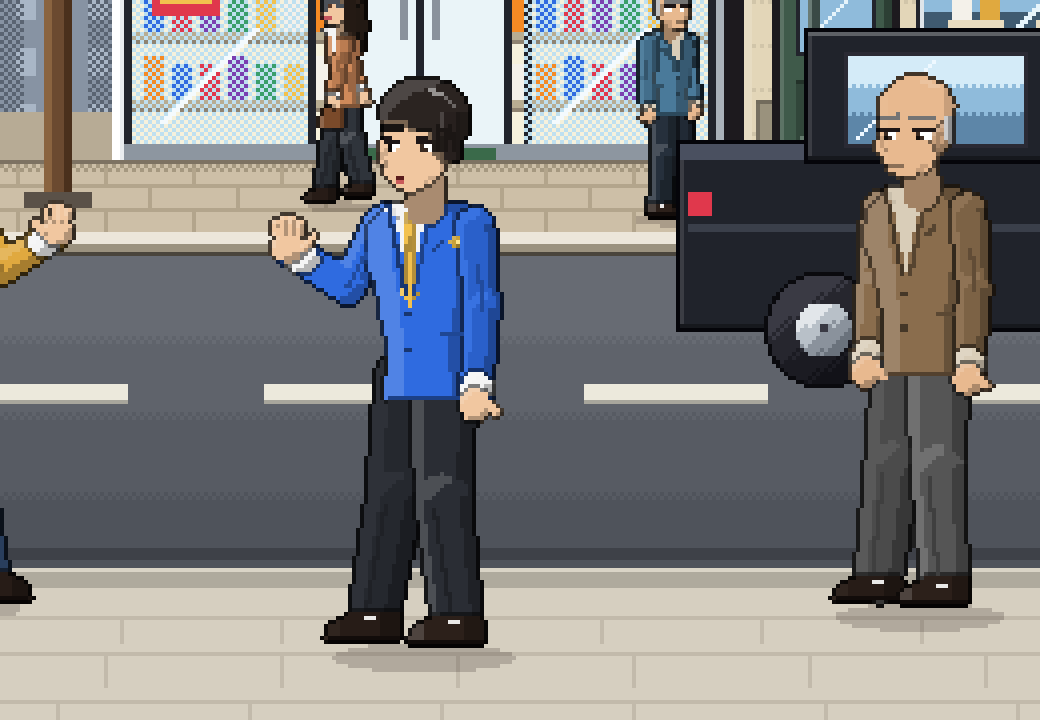
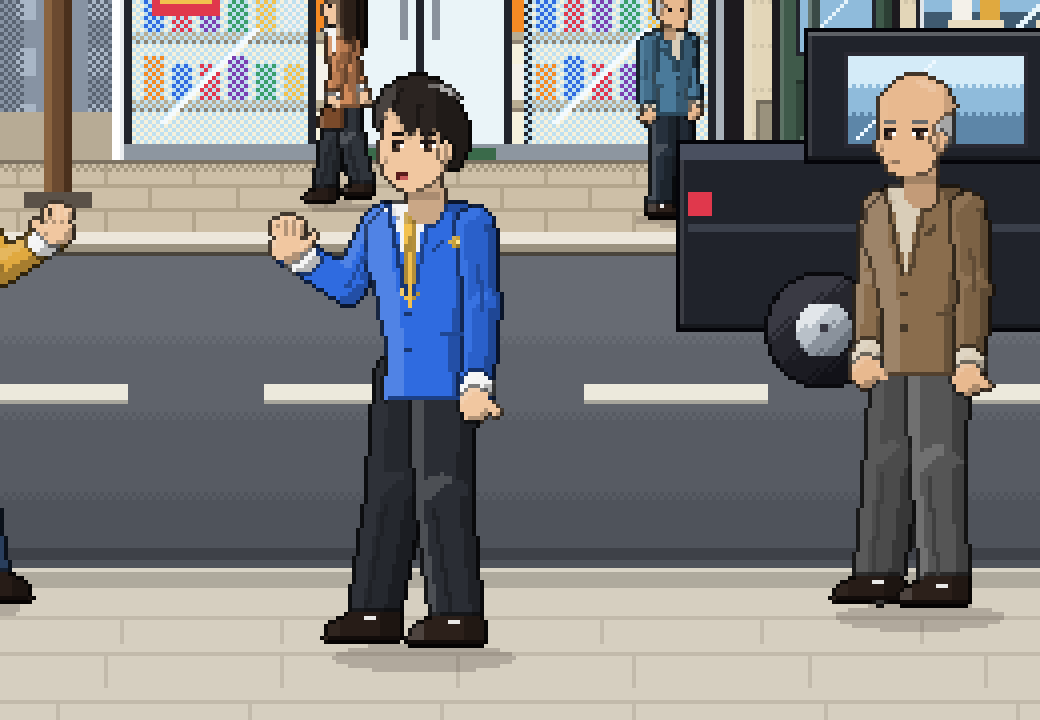
도트 3판 시안 2: 얼굴(픽셀 틀 이목구비, 밝은 목)·머리카락(볼륨, 앞머리 톱니, 그림자, 결) 새로 그림. 게임 본체는 그대로
Claude-Session: https://claude.ai/code/session_013m8QWBoerfQ3FYRNweRjck

diff --git a/proto/dot3_head.js b/proto/dot3_head.js
@@ -1,0 +1,107 @@
+/* ── 도트 3판 얼굴·머리 ──
+   얼굴 윤곽은 예전 다각형을 그대로 쓰고, 눈·눈썹·코·입은 픽셀 단위 틀로 찍는다(크기 3단계: 2 큰 인물, 1 중간, 0 먼 행인).
+   머리카락은 두피보다 2단위 높은 볼륨 + 앞머리 톱니 + 앞머리 그림자 + 결선·윤기 획. 방향 f 정면, q 3/4(오른쪽 봄), s 옆. */
+const HAIR3={
+  f:{cx:18,top:[[11.6,-8.6],[12.0,-11.4],[13.4,-13.6],[15.6,-14.9],[18,-15.3],[20.4,-14.9],[22.6,-13.6],[24.0,-11.4],[24.4,-8.6]],
+    R:{short:[[24.1,-5.4],[23.2,-5.4],[23.1,-8.4]],long:[[24.8,-4],[25.0,2],[24.6,7.0],[23.0,6.4],[23.3,0],[23.4,-6]],bob:[[24.8,-4],[24.8,-.8],[23.6,.2],[22.8,-.6],[23.3,-4],[23.4,-6]]},
+    L:{short:[[12.9,-8.4],[12.8,-5.4],[11.9,-5.4]],long:[[12.6,-6],[12.7,0],[13.0,6.4],[11.4,7.0],[11.0,2],[11.2,-4]],bob:[[12.6,-6],[12.7,-4],[13.2,-.6],[12.4,.2],[11.2,-.8],[11.2,-4]]},
+    B:{short:[[22.4,-8.8],[21.6,-10.2],[20.8,-8.2],[19.8,-9.9],[18.6,-7.9],[17.4,-9.8],[16.2,-8.1],[15.2,-9.9],[14.2,-8.6],[13.2,-9.4]],
+      part:[[22.8,-8.8],[21.8,-10.6],[20.6,-11.4],[19.8,-9.8],[18.4,-8.6],[17.4,-9.6],[16.2,-8.0],[14.8,-8.6],[13.6,-7.4]],
+      slick:[[23.0,-9.8],[21.8,-11.2],[20.0,-11.8],[18,-11.0],[16.0,-11.8],[14.2,-11.2],[13.0,-9.8]],
+      fem:[[23.0,-7.8],[22.4,-9.4],[21.2,-10.6],[20.2,-9.0],[19.4,-10.4],[17.8,-8.4],[16.6,-9.6],[15.2,-8.0],[14.0,-9.0],[13.2,-7.4]]}},
+  q:{cx:16.8,top:[[12.8,-12.6],[14.8,-14.5],[17.4,-15.3],[20.2,-15.0],[22.3,-13.8],[23.6,-11.8],[24.0,-9.8]],
+    back:{short:[[13.6,-3.4],[12.3,-2.8],[10.9,-6.2],[11.0,-9.8]],long:[[14.4,6.6],[13.0,7.2],[11.2,4.0],[10.9,-2],[11.2,-7],[11.7,-9.8]],bob:[[14.6,-.2],[13.4,.4],[11.6,-.8],[11.2,-4],[11.4,-7.6],[11.7,-9.8]]},
+    B:{short:[[23.4,-9.0],[22.5,-10.2],[21.6,-8.3],[20.6,-9.9],[19.5,-8.2],[18.4,-9.9],[17.3,-8.5],[16.3,-9.8]],
+      part:[[23.6,-9.2],[22.8,-10.8],[21.4,-11.6],[20.4,-9.8],[19.2,-8.4],[18.0,-9.6],[16.8,-8.2]],
+      slick:[[23.6,-10.6],[22.2,-11.8],[20,-12.0],[17.8,-11.6],[16.4,-11.2]],
+      fem:[[23.6,-8.0],[23.0,-9.6],[21.8,-10.8],[20.8,-9.0],[19.8,-10.4],[18.4,-8.4],[17.2,-9.6],[16.4,-8.6]]},
+    T:{short:[[15.4,-9.6],[15.0,-7.6],[14.6,-5.4],[14.1,-7.4],[13.6,-6.4]],long:[[15.4,-9.4],[14.8,-6],[14.7,1.0]],bob:[[15.4,-9.4],[14.8,-5],[14.8,-1.2]]}},
+  s:{cx:17.4,top:[[13.4,-12.8],[15.6,-14.6],[18.4,-15.2],[21,-14.6],[22.8,-12.8],[23.6,-10.6]],
+    back:{short:[[14.6,-3.0],[12.9,-2.4],[11.3,-5.6],[11.4,-9.8]],long:[[16.6,6.0],[14.6,7.4],[12.4,4.0],[11.6,-2],[11.8,-7],[12.2,-9.8]],bob:[[16.6,-.4],[14.6,.4],[12.4,-1.0],[11.8,-5],[12.2,-9.8]]},
+    B:{short:[[23.0,-9.6],[22.2,-10.6],[21.6,-8.8],[20.6,-10.4],[19.8,-9.0]],part:[[23.4,-9.4],[22.4,-11.2],[21.0,-10.2],[19.8,-8.8]],
+      slick:[[23.4,-11.4],[21.6,-12.2],[19.8,-11.6]],fem:[[23.2,-8.6],[22.6,-10.0],[21.6,-9.2],[20.6,-10.4],[19.8,-9.0]]},
+    T:{short:[[18.8,-9.6],[18.2,-7.6],[17.6,-5.8],[17.2,-7.6],[15.6,-7.8],[15.0,-5.6]],long:[[18.8,-9.6],[18.2,-7.6],[17.4,-4.4],[17.2,1.6]],bob:[[18.8,-9.6],[18.2,-7.6],[17.4,-4.4],[17.2,-1.2]]}}};
+function hairPts3(d,st,FEM){const H=HAIR3[d],len=st==='long'?'long':st==='bob'?'bob':'short',bg=FEM?'fem':st==='part'?'part':st==='slick'?'slick':'short';
+  const BB=H.B[bg].map((p,i,a)=>{const lo=(i===0||p[1]>a[i-1][1])&&(i===a.length-1||p[1]>a[i+1][1]);return lo&&bg!=='slick'?[p[0],p[1]+.9]:p});
+  const vol=([x,y])=>y<-10?[H.cx+(x-H.cx)*1.05,y-(-10-y)*.2]:[x,y];
+  return{pts:(d==='f'?H.top.concat(H.R[len],BB,H.L[len]):H.back[len].concat(H.top,BB,H.T[len])).map(vol),bangs:BB.map(vol),cx:H.cx,len}}
+const BALD3={f:[[[11.9,-9.6],[13.0,-9.4],[13.1,-6.6],[12.7,-4.6],[12.0,-5.4],[11.7,-7.6]],[[24.1,-9.6],[23.0,-9.4],[22.9,-6.6],[23.3,-4.6],[24.0,-5.4],[24.3,-7.6]]],
+  q:[[[12.4,-9.4],[13.6,-9.0],[14.4,-7.6],[14.6,-5.6],[13.6,-3.6],[12.6,-4.6],[12.2,-7]]],s:[[[12.5,-9.6],[13.5,-9.2],[14.6,-8.2],[15,-6],[14.6,-3.6],[13.4,-3.2],[12.6,-5]]]};
+// 픽셀 틀: K 윤곽, W 흰자, H 홍채 밝은 쪽, P 동공, I 홍채, S·D 피부 그늘, B 눈썹, M 입속, T 이, R 혀, L 입술, C 볼, E 눈물, F 안경테, G 안경 아래테
+const EYE3={2:{n:['KKKK','WHPW','.II.'],nF:['KKKK','KHPW','.II.'],smile:['.KK.','K..K'],down:['....','.SS.','KKKK'],shock:['KKKK','WPPW','.WW.'],angry:['KKK.','WHPK','.II.'],sad:['.KKK','KHPW','.II.','E...']},
+  1:{n:['KKK','WPW'],nF:['KKK','KPW'],smile:['.K.','K.K'],down:['...','KKK'],shock:['KKK','WPW','.W.'],angry:['KK.','WPK'],sad:['.KK','KPW']},
+  0:{n:['K'],nF:['K'],smile:['K'],down:['K'],shock:['K'],angry:['K'],sad:['K']}};
+const BROW3={2:{n:['BBBB'],nF:['.BBB','B...'],angry:['BB..','..BB'],sad:['..BB','BB..'],shock:['BBBB']},1:{n:['BBB'],nF:['BBB'],angry:['B..','.BB'],sad:['..B','BB.'],shock:['BBB']}};
+const MOUTH3={2:{n:['SLLS'],nF:['.LL.'],talk:['MMMM','MRRM'],smile:['M..M','.MM.'],grin:['MTTM','.MM.'],angry:['MMMM','MTTM'],shock:['.MM.','MMMM','.MM.'],sad:['.LL.','L..L']},
+  1:{n:['LL'],nF:['LL'],talk:['MM','MM'],smile:['M..M','.MM.'],grin:['M..M','.MM.'],angry:['MMMM'],shock:['MM','MM'],sad:['.LL.','L..L']},0:{talk:['MM'],shock:['MM']}};
+const flipRows=r=>r.map(x=>[...x].reverse().join(''));
+function inPoly3(pts,x,y){let ins=false;for(let i=0,j=pts.length-1;i<pts.length;j=i++){const[xi,yi]=pts[i],[xj,yj]=pts[j];if((yi>y)!==(yj>y)&&x<(xj-xi)*(y-yi)/(yj-yi)+xi)ins=!ins}return ins}
+function headH(G,c,d,dx,dy,st,face,talk,FEM,pf){const{part,feat,ell,poly,line,cap,K}=G;
+  const X=x=>x+dx,Y=y=>y+dy,P=pts=>pts.map(([x,y])=>[X(x),Y(y)]),s=c.s||'#f1c7a0',S2=shade(s,.86),S3=shade(s,.72),h=c.h||'#2b2421',BALD=st==='bald',LONG=st==='long'||st==='bob';
+  const sz=K>=1.3?2:K>=.95?1:0,gx=ux=>G.gx(X(ux)),gy=uy=>G.gy(Y(uy)),R=Math.round;
+  const CL={K:'#1e1616',W:c.gl?'#e8f2f8':'#ffffff',H:FEM?'#9a6a52':'#7a5a48',P:'#140e0c',I:FEM?'#5a3628':'#3e2c22',B:shade(h,FEM?.62:.5),S:S2,D:S3,M:'#5a1c1c',T:'#ffffff',R:'#c95a5a',L:FEM?'#c4545c':shade(s,.64),C:'#f0a090',E:'#9fd4ff',F:'#33383f',G:'#9aa3ad'};
+  const px=(i,j,rows)=>G.pixI(i,j,rows,CL);
+  const fk=face==='grin'?'smile':face==='down2'?'down':face;
+  const eyeT=(set)=>{const T=EYE3[sz];return T[fk]||(FEM?T.nF:T.n)};
+  const browT=()=>{const T=BROW3[sz];if(!T)return null;return T[fk==='shock'?'shock':fk]||(FEM?T.nF:T.n)};
+  const mouthT=()=>{const T=MOUTH3[sz];if(talk&&!['smile','grin','sad'].includes(face))return T.talk||null;return T[face]||T[fk]||(FEM?T.nF:T.n)||null};
+  // 얼굴 윤곽(예전과 같은 다각형). 대머리는 정수리를 둥글게 이어서 한 덩어리로
+  const skull=(pts,cx)=>{if(!BALD)return pts;const arc=[];for(let a=192;a<=348;a+=12){const r=a*Math.PI/180;arc.push([cx+6*Math.cos(r),-9.5+5.7*Math.sin(r)])}return arc.concat(pts.slice(2))};
+  const FT=[[.14,1.04],[.84,1],[1,.86]];
+  const fp=d==='f'?skull([[13,-12.6],[23,-12.6],[23.4,-6],[22.8,-3],[21,-.8],[18,.3],[15,-.8],[13.2,-3],[12.6,-6]],18)
+    :d==='q'?skull([[13.4,-12.6],[22.4,-12.8],[23.1,-9],[23.3,-6.4],[23.8,-4.8],[23.6,-3.9],[23,-3.3],[22.7,-2],[21.2,-.4],[19,.3],[16,-1],[14,-3.4],[12.9,-7]],17.6)
+    :skull([[14,-12.6],[21.6,-12.8],[22.6,-10],[22.8,-7.6],[23.3,-6],[23.9,-4.7],[23.6,-3.9],[23.1,-3.5],[23.2,-2.7],[22.7,-2.1],[22.6,-1.2],[21.7,-.1],[19.4,.4],[16.6,-.6],[14.2,-3],[13,-7]],17);
+  if(d==='f'&&!LONG){part();ell(X(12.5),Y(-5.8),1.3,2,S2);ell(X(23.5),Y(-5.8),1.3,2,S2);feat();line(X(12.3),Y(-6.6),X(12.5),Y(-4.8),.3,S3);line(X(23.7),Y(-6.6),X(23.5),Y(-4.8),.3,S3)}
+  part();const FP=P(fp);poly(FP,s,{tones:FT});
+  const HP=BALD?null:hairPts3(d,st,FEM);
+  // 앞머리 그림자: 머리 모양을 아래로 조금 내려 이마에 드리운다
+  if(HP&&sz>0){feat();poly(P(HP.pts.map(([x,y])=>[x+.25,y+.75])),S2,{flat:1,clip:(x,y)=>inPoly3(FP,x,y)})}
+  // 볼 그늘(빛은 왼쪽 위): 얼굴 오른쪽 아래
+  if(sz===2){feat();if(d==='f')poly(P([[21.6,-4.4],[23.0,-5.6],[22.8,-3],[21,-.8],[19.6,-.2],[21.2,-1.8]]),S2,{flat:1,clip:(x,y)=>inPoly3(FP,x,y)});}
+  // ── 이목구비(픽셀 틀) ──
+  feat();
+  const ej=R(gy(sz===2?-7.1:sz===1?-6.9:-6.6)),ET=eyeT(),ew=ET[0].length,BT=browT(),MT=mouthT();
+  const browAt=(i,rows,ww)=>{if(!rows)return;const two=rows.length>1||fk==='shock';px(i,ej-(two?3:2),rows.map(r=>r.slice(0,ww)))};
+  if(d==='f'){const ci=R(gx(18)),gap=sz===2?4:sz===1?2:2,gl=gap>>1,gr=gap-gl,iL=ci-gl-ew,iR=ci+gr;
+    px(iL,ej,ET);px(iR,ej,flipRows(ET));if(BT){browAt(iL,BT,ew);browAt(iR,flipRows(BT),ew)}
+    if(sz===2&&(FEM||fk==='smile')){px(iL,ej+3+(fk==='sad'?1:0),['CC']);px(iR+ew-2,ej+3+(fk==='sad'?1:0),['CC'])}
+    if(sz>0){const nj=R(gy(-4.7));px(ci,nj,sz===2?['S','D']:['D'])}
+    if(MT){const mj=R(gy(sz===2?-2.3:-2.1)),mw=MT[0].length;px(ci-(mw>>1),mj,MT)}
+    if(c.gl&&sz>0)glasses3(px,d,[[iL,ew],[iR,ew]],ej,sz)}
+  else if(d==='q'){const iN=R(gx(sz===2?15.6:15.8)),gapQ=sz===2?4:2,iF=iN+ew+gapQ,FT2=ET.map(r=>r.slice(0,Math.max(1,ew-1))),fw=FT2[0].length;
+    px(iN,ej,ET);px(iF,ej,FT2);if(BT){browAt(iN,BT,ew);browAt(iF,BT,fw)}
+    if(sz===2&&(FEM||fk==='smile'))px(iN,ej+3,['CC']);
+    if(sz>0)px(R(gx(22.6)),R(gy(-4.6)),sz===2?['S','D']:['D']);
+    if(MT){const mj=R(gy(sz===2?-2.3:-2.1)),mw=MT[0].length,mT=sz===2&&mw===4?MT.map(r=>r.slice(1)):MT;px(R(gx(20.4))-(mT[0].length>>1),mj,mT)}
+    if(c.gl&&sz>0)glasses3(px,d,[[iN,ew],[iF,fw]],ej,sz,R(gx(14.4)))}
+  else{const iE=R(gx(sz===2?20.6:21)),PT=ET.map(r=>r.slice(Math.max(0,ew-3))).map(r=>r.slice(0,sz===2?3:Math.max(1,ew-1)));
+    px(iE,ej,PT);if(BT)browAt(iE,BT.map(r=>r.slice(-3)),PT[0].length);
+    if(MT){const mj=R(gy(sz===2?-2.3:-2.1)),mT=MT.map(r=>r.slice(0,sz===2?2:1));px(R(gx(21.8)),mj,mT)}
+    if(c.gl&&sz>0)glasses3(px,d,[[iE,PT[0].length]],ej,sz,R(gx(16.8)))}
+  // ── 머리카락 ──
+  part();
+  if(BALD){const hg=shade(h,.92);BALD3[d].forEach(pp=>poly(P(pp),hg,{tones:[[.3,1.1],[1,.86]]}));
+    feat();const tx=d==='f'?15.2:d==='q'?15:15.6;cap(X(tx),Y(-13.4),X(tx+2.2),Y(-14.4),.5,.45,shade(s,1.16),{flat:1})}
+  else{poly(P(HP.pts),h,{tones:[[.22,1.14],[.66,1],[1,.74]]});
+    feat();const hd=shade(h,.64),HI=shade(h,1.62),cx=HP.cx,B=HP.bangs;
+    if(sz>0){
+      if(st==='slick')for(let i=0;i<3;i++)line(X(cx+2.4-i*2.4),Y(-11.4),X(cx+.6-i*2.6),Y(-14.2),.32,hd);
+      else for(let i=1;i<B.length-1;i++)if(B[i][1]<B[i-1][1]&&B[i][1]<B[i+1][1]){const[vx,vy]=B[i];line(X(vx),Y(vy+.2),X(vx+(cx-vx)*.25),Y(vy-2.6),.3,hd)}
+      if(HP.len!=='short'&&sz===2){const sx=d==='f'?[11.9,24.1]:[d==='q'?12.0:12.6];sx.forEach(x0=>line(X(x0+(x0<18?.7:-.7)),Y(-6),X(x0+(x0<18?.9:-.9)),Y(HP.len==='long'?5.4:-1.4),.3,hd))}
+      [[206,220],[228,246],[252,262]].forEach(([a,b],k)=>{const A=a*Math.PI/180,Bq=b*Math.PI/180,rx=5.2,ry=3.6,cy=-11.4;
+        cap(X(cx+Math.cos(A)*rx),Y(cy+Math.sin(A)*ry),X(cx+Math.cos(Bq)*rx),Y(cy+Math.sin(Bq)*ry),k===1?.42:.34,k===1?.4:.3,k===1?HI:shade(h,1.34),{flat:1})})}
+    if(st==='bun'){const bx=d==='f'?14:d==='q'?13.8:13.4;ell(X(bx),Y(-12.4),.6,.6,'#f2c14e')}}
+  // 3/4·옆 귀는 머리 위에(긴 머리는 귀를 덮는다)
+  if(d!=='f'&&!LONG){const ex=d==='q'?14:16.4;part();ell(X(ex),Y(-5.4),1,1.6,s,{tones:[[.5,1],[1,.86]]});feat();line(X(ex+.1),Y(-6.2),X(ex+.2),Y(-4.6),.3,S3)}}
+// 안경: 렌즈마다 테를 두르고 다리를 귀 쪽으로
+function glasses3(px,d,lens,ej,sz,earI){const top=ej-1,bot=ej+(sz===2?3:2);
+  lens.forEach(([i,w])=>{px(i-1,top,['F'.repeat(w+2)]);px(i-1,bot,['G'.repeat(w+2)]);for(let j=top+1;j<bot;j++){px(i-1,j,['F']);px(i+w,j,['F'])}});
+  if(lens.length===2){const a=lens[0][0]+lens[0][1]+1,b=lens[1][0]-1;if(b>a)px(a,top+1,['F'.repeat(b-a)])}
+  if(d==='f'){const[iL]=lens[0],[iR,wR]=lens[1];px(iL-3,top+1,['FF']);px(iR+wR+1,top+1,['FF'])}
+  else if(earI!=null){const i0=lens[0][0]-1;if(i0-earI>0)px(earI,top+1,['F'.repeat(i0-earI)])}}
+function backHairH(G,c,d,dx,dy,st,h){const{ell,poly}=G,cx=18+dx+(d==='q'?-1:d==='s'?-2.4:0),y=dy,hb=shade(h,.72);
+  if(st==='long'){if(d==='f')poly([[cx-6.6,-11+y],[cx+6.6,-11+y],[cx+7.2,2+y],[cx+6.8,11+y],[cx+2,12.6+y],[cx-2,12.6+y],[cx-6.8,11+y],[cx-7.2,2+y]],hb);
+    else poly([[cx-5.4,-11+y],[cx+4.6,-11+y],[cx+4.4,4+y],[cx+2.6,10.6+y],[cx-2.4,12+y],[cx-6.4,9+y],[cx-7,2+y]],hb)}
+  if(st==='bob'){if(d==='f')poly([[cx-6.6,-11+y],[cx+6.6,-11+y],[cx+7,-1+y],[cx+6.2,1.2+y],[cx-6.2,1.2+y],[cx-7,-1+y]],hb);
+    else poly([[cx-5.4,-11+y],[cx+4.6,-11+y],[cx+4.4,-1+y],[cx+2.4,1+y],[cx-4.4,1+y],[cx-6.6,-1+y]],hb)}
+  if(st==='bun'){const bx=d==='f'?18+dx:d==='q'?14.4+dx:13+dx;ell(bx,(d==='f'?-18:-15.6)+y,3.6,3.2,h,{tones:[[.3,1.12],[1,.82]]})}}

diff --git a/proto/dot3_patch.py b/proto/dot3_patch.py
@@ -64,6 +64,16 @@ rep("(sc.extras||[]).forEach(([kk,pose,x,fy,flip,o])=>items.push({fy,fn:()=>{con
 # ⑤ 거리 배경: 인물 크기에 맞춘 전체 그림(sc.full)
 rep("  const sc=SCN[bg]||{};const ext=sc.ext||[216,256];\n", "  const sc=SCN[bg]||{};if(sc.full){c.clearRect(0,0,512,320);BGK.run(c,H=>sc.full(c,H));return BGF[key]=cv}const ext=sc.ext||[216,256];\n")
 rep("  const X=BGX[bg];try{if(X&&X.back)X.back(r,mkRng(spec+'b'),c,ws)}catch(e){}", "  const X=BGX[bg];try{if(X&&X.back&&!sc.full)X.back(r,mkRng(spec+'b'),c,ws)}catch(e){}")
+# ⑥ 얼굴·머리 3판: 픽셀 틀 이목구비, 볼륨 있는 머리카락(proto/dot3_head.js)
+rep("    flush(ctx,X,Y){const out=col.slice();", """    gx(ux){return (ux-U0x)*K},gy(uy){return (uy-U0y)*K},
+    pixI(i,j,rows,cols){const w=rows[0].length;const i0=flip?Math.round(UW*K-i-w):i;rows.forEach((row,r)=>{const rr=flip?[...row].reverse().join(''):row;for(let k=0;k<w;k++){const cl=cols[rr[k]];if(!cl)continue;const x=i0+k,y=j+r;if(x<0||x>=GW||y<0||y>=GH)continue;const q=y*GW+x;col[q]=cl;lay[q]=L;nol[q]=NL}})},
+    flush(ctx,X,Y){const out=col.slice();""")
+rep("function backHairH(G,c,d,dx,dy,st,h){", "function backHairH0(G,c,d,dx,dy,st,h){")
+rep("function headH(G,c,d,dx,dy,st,face,talk,FEM,pf){", "function headH0(G,c,d,dx,dy,st,face,talk,FEM,pf){")
+rep("part();cap(nk[0]+(d==='s'?.6:0),nk[1]-3,nk[0]+(d==='s'?.6:0),nk[1]+.4,2.6,2.8,S3,{flat:1});",
+    "part();cap(nk[0]+(d==='s'?.6:0),nk[1]-3,nk[0]+(d==='s'?.6:0),nk[1]+.4,2.4,2.6,S2,{flat:1});feat();rect(nk[0]-2.4+(d==='s'?.6:0),nk[1]-1.8,4.8,1.1,S3);")
+head = (Path(__file__).parent/'dot3_head.js').read_text(encoding='utf-8')
+rep("function hairH(G,X,Y,P,st,h,hd,H,FEM,d,s){", head + "\nfunction hairH(G,X,Y,P,st,h,hd,H,FEM,d,s){")
 street = (Path(__file__).parent/'dot3_street.js').read_text(encoding='utf-8')
 rep("/* ── 배경별 설정 ──", street + "\n/* ── 배경별 설정 ──")
 rep("""  street:{ext:c=>walkway(c,280,'#d6cfc0','#c2baab'),
